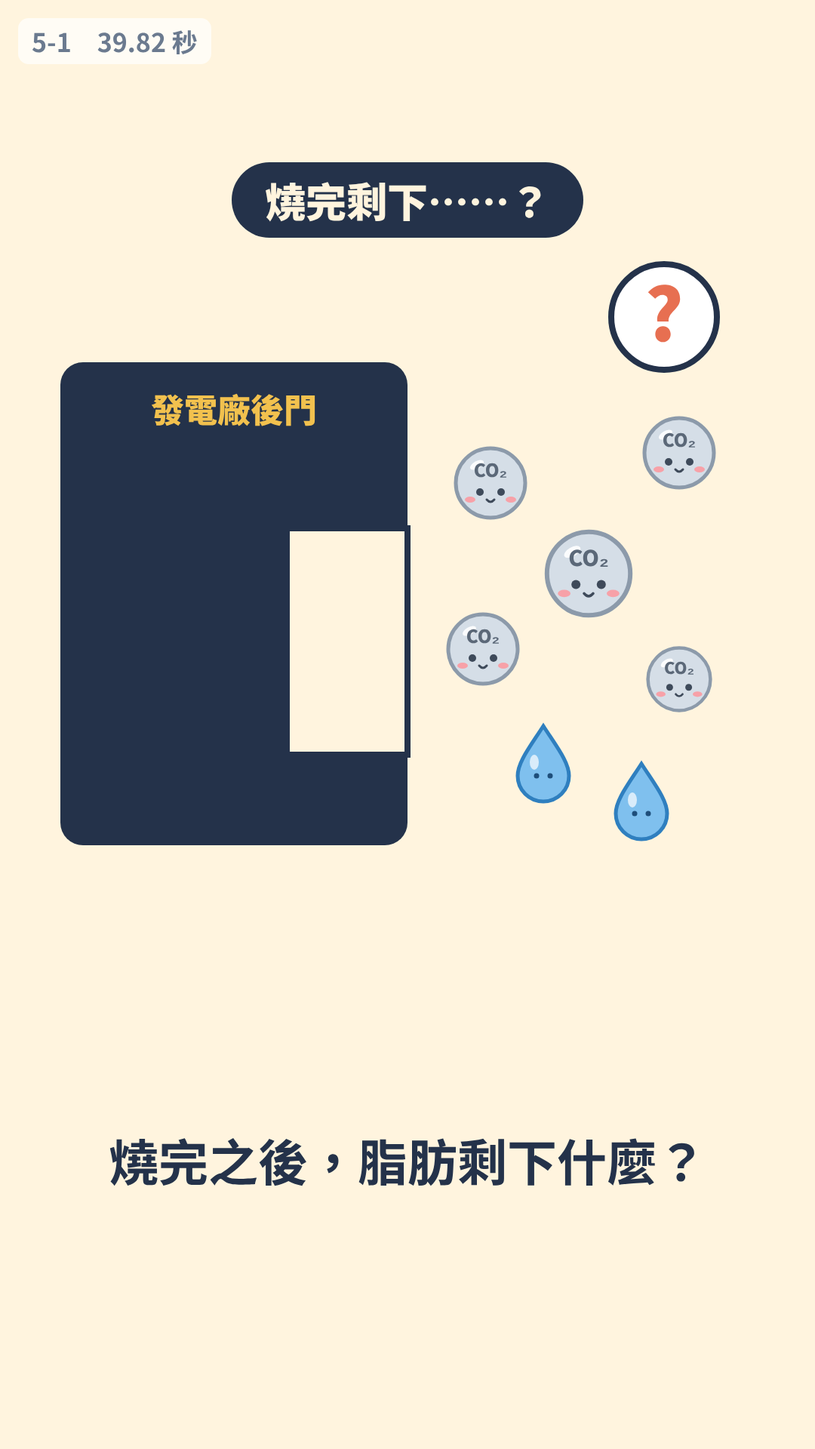
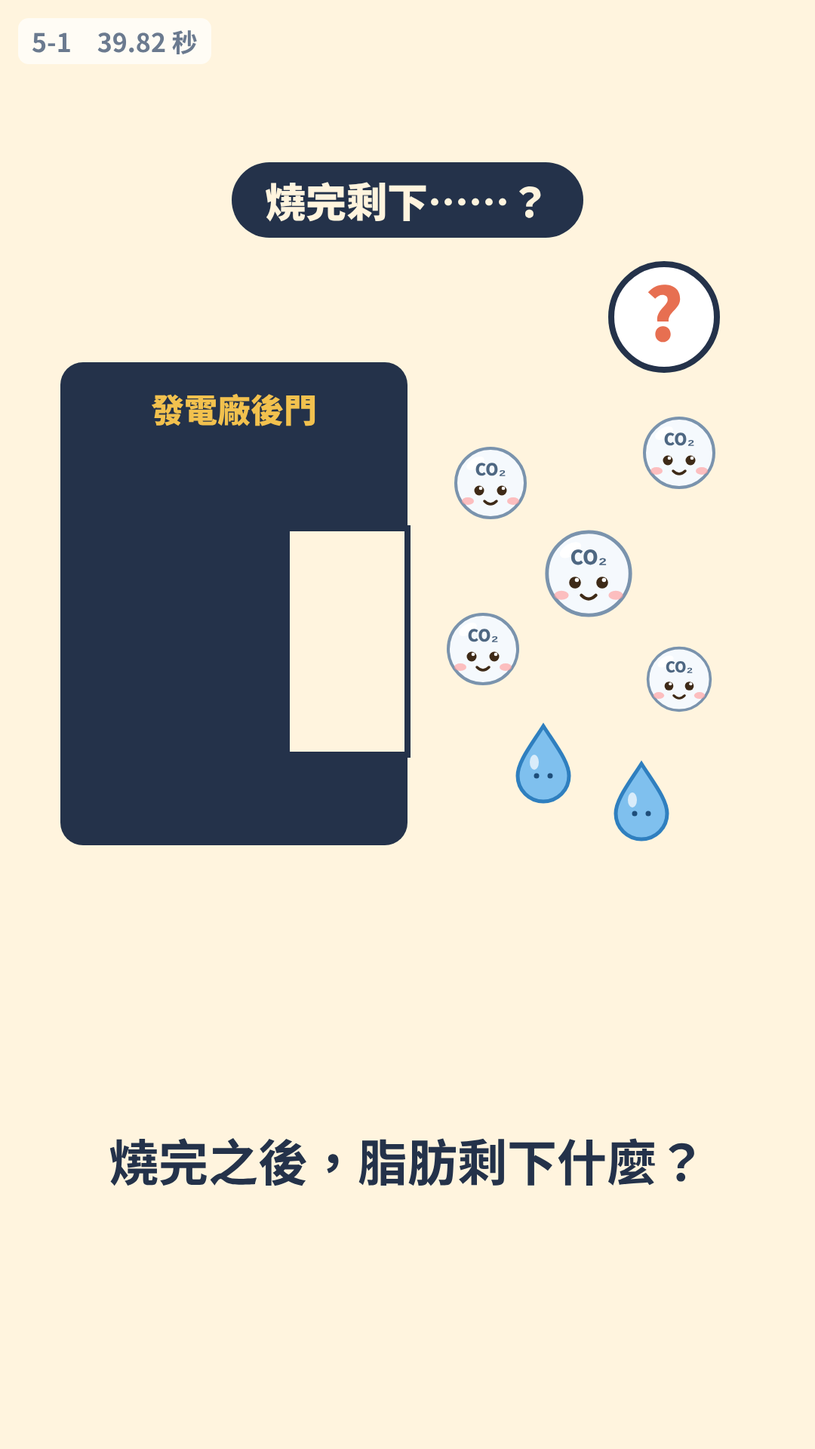
脂肪專案：油油換成使用者設計稿的造型（頭上三串小珠、甘油寶寶、脂肪酸毛毛蟲、CO₂ 泡泡）
Claude-Session: https://claude.ai/code/session_014fzaRRSj4catvv5FGHfu2h

diff --git a/projects/where-does-fat-go/storyboard/frames/frames.html b/projects/where-does-fat-go/storyboard/frames/frames.html
@@ -36,20 +36,16 @@
 <!-- 共用角色 -->
 <svg width="0" height="0" style="position:absolute">
   <defs>
+    <radialGradient id="bodyA" cx="0.38" cy="0.32" r="0.8"><stop offset="0" stop-color="#FFF1B8"/><stop offset="0.55" stop-color="#FFD86B"/><stop offset="1" stop-color="#F5B847"/></radialGradient><radialGradient id="beadA" cx="0.35" cy="0.3" r="0.8"><stop offset="0" stop-color="#FFD58A"/><stop offset="1" stop-color="#F09A2E"/></radialGradient>
     <radialGradient id="mochi" cx="40%" cy="25%" r="85%"><stop offset="0" stop-color="#FFF6D8"/><stop offset=".55" stop-color="#FBE2A0"/><stop offset="1" stop-color="#F2C46E"/></radialGradient>
-    <g id="yy"><circle cx="100.0" cy="-40.0" r="13.0" fill="#F5C66A" stroke="#A8743F" stroke-width="4"/><circle cx="124.0" cy="-31.8" r="12.4" fill="#F5C66A" stroke="#A8743F" stroke-width="4"/><circle cx="148.0" cy="-19.2" r="11.8" fill="#F5C66A" stroke="#A8743F" stroke-width="4"/><circle cx="172.0" cy="-2.2" r="11.2" fill="#F5C66A" stroke="#A8743F" stroke-width="4"/><circle cx="196.0" cy="19.2" r="10.6" fill="#F5C66A" stroke="#A8743F" stroke-width="4"/><circle cx="220.0" cy="45.0" r="10.0" fill="#F5C66A" stroke="#A8743F" stroke-width="4"/><circle cx="112.0" cy="0.0" r="13.0" fill="#F5C66A" stroke="#A8743F" stroke-width="4"/><circle cx="137.0" cy="12.0" r="12.4" fill="#F5C66A" stroke="#A8743F" stroke-width="4"/><circle cx="162.0" cy="28.0" r="11.8" fill="#F5C66A" stroke="#A8743F" stroke-width="4"/><circle cx="187.0" cy="48.0" r="11.2" fill="#F5C66A" stroke="#A8743F" stroke-width="4"/><circle cx="212.0" cy="72.0" r="10.6" fill="#F5C66A" stroke="#A8743F" stroke-width="4"/><circle cx="237.0" cy="100.0" r="10.0" fill="#F5C66A" stroke="#A8743F" stroke-width="4"/><circle cx="104.0" cy="40.0" r="13.0" fill="#F5C66A" stroke="#A8743F" stroke-width="4"/><circle cx="126.0" cy="57.6" r="12.4" fill="#F5C66A" stroke="#A8743F" stroke-width="4"/><circle cx="148.0" cy="78.4" r="11.8" fill="#F5C66A" stroke="#A8743F" stroke-width="4"/><circle cx="170.0" cy="102.4" r="11.2" fill="#F5C66A" stroke="#A8743F" stroke-width="4"/><circle cx="192.0" cy="129.6" r="10.6" fill="#F5C66A" stroke="#A8743F" stroke-width="4"/><circle cx="214.0" cy="160.0" r="10.0" fill="#F5C66A" stroke="#A8743F" stroke-width="4"/><path d="M-122,62 C-132,-40 -72,-112 0,-112 C72,-112 132,-40 122,62 Q119,88 92,90 H-92 Q-119,88 -122,62 Z" fill="url(#mochi)" stroke="#A8743F" stroke-width="7"/><ellipse cx="-62" cy="-70" rx="26" ry="11" fill="#fff" opacity=".85" transform="rotate(-32 -62 -70)"/><circle cx="-30" cy="-88" r="6" fill="#fff" opacity=".85"/><ellipse cx="-78" cy="50" rx="20" ry="12" fill="#F7A1A8" opacity=".8"/><ellipse cx="78" cy="50" rx="20" ry="12" fill="#F7A1A8" opacity=".8"/><circle cx="-46" cy="26" r="15" fill="#5A3A22"/><circle cx="46" cy="26" r="15" fill="#5A3A22"/><circle cx="-41" cy="20" r="5" fill="#fff"/><circle cx="51" cy="20" r="5" fill="#fff"/><path d="M-15,46 q7.5,10 15,0 q7.5,10 15,0" fill="none" stroke="#5A3A22" stroke-width="5" stroke-linecap="round"/></g>
-    <g id="yy-walk"><g transform="translate(0,90) scale(1.12,.86) translate(0,-90)"><circle cx="100.0" cy="-40.0" r="13.0" fill="#F5C66A" stroke="#A8743F" stroke-width="4"/><circle cx="124.0" cy="-31.8" r="12.4" fill="#F5C66A" stroke="#A8743F" stroke-width="4"/><circle cx="148.0" cy="-19.2" r="11.8" fill="#F5C66A" stroke="#A8743F" stroke-width="4"/><circle cx="172.0" cy="-2.2" r="11.2" fill="#F5C66A" stroke="#A8743F" stroke-width="4"/><circle cx="196.0" cy="19.2" r="10.6" fill="#F5C66A" stroke="#A8743F" stroke-width="4"/><circle cx="220.0" cy="45.0" r="10.0" fill="#F5C66A" stroke="#A8743F" stroke-width="4"/><circle cx="112.0" cy="0.0" r="13.0" fill="#F5C66A" stroke="#A8743F" stroke-width="4"/><circle cx="137.0" cy="12.0" r="12.4" fill="#F5C66A" stroke="#A8743F" stroke-width="4"/><circle cx="162.0" cy="28.0" r="11.8" fill="#F5C66A" stroke="#A8743F" stroke-width="4"/><circle cx="187.0" cy="48.0" r="11.2" fill="#F5C66A" stroke="#A8743F" stroke-width="4"/><circle cx="212.0" cy="72.0" r="10.6" fill="#F5C66A" stroke="#A8743F" stroke-width="4"/><circle cx="237.0" cy="100.0" r="10.0" fill="#F5C66A" stroke="#A8743F" stroke-width="4"/><circle cx="104.0" cy="40.0" r="13.0" fill="#F5C66A" stroke="#A8743F" stroke-width="4"/><circle cx="126.0" cy="57.6" r="12.4" fill="#F5C66A" stroke="#A8743F" stroke-width="4"/><circle cx="148.0" cy="78.4" r="11.8" fill="#F5C66A" stroke="#A8743F" stroke-width="4"/><circle cx="170.0" cy="102.4" r="11.2" fill="#F5C66A" stroke="#A8743F" stroke-width="4"/><circle cx="192.0" cy="129.6" r="10.6" fill="#F5C66A" stroke="#A8743F" stroke-width="4"/><circle cx="214.0" cy="160.0" r="10.0" fill="#F5C66A" stroke="#A8743F" stroke-width="4"/><path d="M-122,62 C-132,-40 -72,-112 0,-112 C72,-112 132,-40 122,62 Q119,88 92,90 H-92 Q-119,88 -122,62 Z" fill="url(#mochi)" stroke="#A8743F" stroke-width="7"/><ellipse cx="-62" cy="-70" rx="26" ry="11" fill="#fff" opacity=".85" transform="rotate(-32 -62 -70)"/><circle cx="-30" cy="-88" r="6" fill="#fff" opacity=".85"/><ellipse cx="-78" cy="50" rx="20" ry="12" fill="#F7A1A8" opacity=".8"/><ellipse cx="78" cy="50" rx="20" ry="12" fill="#F7A1A8" opacity=".8"/><circle cx="-46" cy="26" r="15" fill="#5A3A22"/><circle cx="46" cy="26" r="15" fill="#5A3A22"/><circle cx="-41" cy="20" r="5" fill="#fff"/><circle cx="51" cy="20" r="5" fill="#fff"/><path d="M-15,46 q7.5,10 15,0 q7.5,10 15,0" fill="none" stroke="#5A3A22" stroke-width="5" stroke-linecap="round"/></g></g>
-    <g id="yy-sleep"><circle cx="100.0" cy="-40.0" r="13.0" fill="#F5C66A" stroke="#A8743F" stroke-width="4"/><circle cx="124.0" cy="-31.8" r="12.4" fill="#F5C66A" stroke="#A8743F" stroke-width="4"/><circle cx="148.0" cy="-19.2" r="11.8" fill="#F5C66A" stroke="#A8743F" stroke-width="4"/><circle cx="172.0" cy="-2.2" r="11.2" fill="#F5C66A" stroke="#A8743F" stroke-width="4"/><circle cx="196.0" cy="19.2" r="10.6" fill="#F5C66A" stroke="#A8743F" stroke-width="4"/><circle cx="220.0" cy="45.0" r="10.0" fill="#F5C66A" stroke="#A8743F" stroke-width="4"/><circle cx="112.0" cy="0.0" r="13.0" fill="#F5C66A" stroke="#A8743F" stroke-width="4"/><circle cx="137.0" cy="12.0" r="12.4" fill="#F5C66A" stroke="#A8743F" stroke-width="4"/><circle cx="162.0" cy="28.0" r="11.8" fill="#F5C66A" stroke="#A8743F" stroke-width="4"/><circle cx="187.0" cy="48.0" r="11.2" fill="#F5C66A" stroke="#A8743F" stroke-width="4"/><circle cx="212.0" cy="72.0" r="10.6" fill="#F5C66A" stroke="#A8743F" stroke-width="4"/><circle cx="237.0" cy="100.0" r="10.0" fill="#F5C66A" stroke="#A8743F" stroke-width="4"/><circle cx="104.0" cy="40.0" r="13.0" fill="#F5C66A" stroke="#A8743F" stroke-width="4"/><circle cx="126.0" cy="57.6" r="12.4" fill="#F5C66A" stroke="#A8743F" stroke-width="4"/><circle cx="148.0" cy="78.4" r="11.8" fill="#F5C66A" stroke="#A8743F" stroke-width="4"/><circle cx="170.0" cy="102.4" r="11.2" fill="#F5C66A" stroke="#A8743F" stroke-width="4"/><circle cx="192.0" cy="129.6" r="10.6" fill="#F5C66A" stroke="#A8743F" stroke-width="4"/><circle cx="214.0" cy="160.0" r="10.0" fill="#F5C66A" stroke="#A8743F" stroke-width="4"/><path d="M-122,62 C-132,-40 -72,-112 0,-112 C72,-112 132,-40 122,62 Q119,88 92,90 H-92 Q-119,88 -122,62 Z" fill="url(#mochi)" stroke="#A8743F" stroke-width="7"/><ellipse cx="-62" cy="-70" rx="26" ry="11" fill="#fff" opacity=".85" transform="rotate(-32 -62 -70)"/><circle cx="-30" cy="-88" r="6" fill="#fff" opacity=".85"/><ellipse cx="-78" cy="50" rx="20" ry="12" fill="#F7A1A8" opacity=".8"/><ellipse cx="78" cy="50" rx="20" ry="12" fill="#F7A1A8" opacity=".8"/><path d="M-60,28 q14,12 28,0 M32,28 q14,12 28,0" fill="none" stroke="#5A3A22" stroke-width="6" stroke-linecap="round"/><circle cx="38" cy="58" r="22" fill="#D6ECFF" stroke="#8FBCE6" stroke-width="4" opacity=".9"/><circle cx="31" cy="51" r="5" fill="#fff"/>
-      <text x="40" y="-130" font-size="60" font-weight="900" fill="#A8743F">z</text><text x="80" y="-170" font-size="42" font-weight="900" fill="#A8743F">z</text></g>
-    <g id="yy-shock"><circle cx="77.1" cy="-101.9" r="13.0" fill="#F5C66A" stroke="#A8743F" stroke-width="4"/><circle cx="96.4" cy="-124.9" r="12.4" fill="#F5C66A" stroke="#A8743F" stroke-width="4"/><circle cx="115.7" cy="-147.9" r="11.8" fill="#F5C66A" stroke="#A8743F" stroke-width="4"/><circle cx="135.0" cy="-170.9" r="11.2" fill="#F5C66A" stroke="#A8743F" stroke-width="4"/><circle cx="154.3" cy="-193.9" r="10.6" fill="#F5C66A" stroke="#A8743F" stroke-width="4"/><circle cx="173.6" cy="-216.8" r="10.0" fill="#F5C66A" stroke="#A8743F" stroke-width="4"/><circle cx="115.9" cy="-41.1" r="13.0" fill="#F5C66A" stroke="#A8743F" stroke-width="4"/><circle cx="144.9" cy="-48.8" r="12.4" fill="#F5C66A" stroke="#A8743F" stroke-width="4"/><circle cx="173.9" cy="-56.6" r="11.8" fill="#F5C66A" stroke="#A8743F" stroke-width="4"/><circle cx="202.8" cy="-64.4" r="11.2" fill="#F5C66A" stroke="#A8743F" stroke-width="4"/><circle cx="231.8" cy="-72.1" r="10.6" fill="#F5C66A" stroke="#A8743F" stroke-width="4"/><circle cx="260.8" cy="-79.9" r="10.0" fill="#F5C66A" stroke="#A8743F" stroke-width="4"/><circle cx="112.8" cy="31.0" r="13.0" fill="#F5C66A" stroke="#A8743F" stroke-width="4"/><circle cx="141.0" cy="41.3" r="12.4" fill="#F5C66A" stroke="#A8743F" stroke-width="4"/><circle cx="169.1" cy="51.6" r="11.8" fill="#F5C66A" stroke="#A8743F" stroke-width="4"/><circle cx="197.3" cy="61.8" r="11.2" fill="#F5C66A" stroke="#A8743F" stroke-width="4"/><circle cx="225.5" cy="72.1" r="10.6" fill="#F5C66A" stroke="#A8743F" stroke-width="4"/><circle cx="253.7" cy="82.3" r="10.0" fill="#F5C66A" stroke="#A8743F" stroke-width="4"/><path d="M-122,62 C-132,-40 -72,-112 0,-112 C72,-112 132,-40 122,62 Q119,88 92,90 H-92 Q-119,88 -122,62 Z" fill="url(#mochi)" stroke="#A8743F" stroke-width="7"/><ellipse cx="-62" cy="-70" rx="26" ry="11" fill="#fff" opacity=".85" transform="rotate(-32 -62 -70)"/><circle cx="-30" cy="-88" r="6" fill="#fff" opacity=".85"/><ellipse cx="-78" cy="50" rx="20" ry="12" fill="#F7A1A8" opacity=".8"/><ellipse cx="78" cy="50" rx="20" ry="12" fill="#F7A1A8" opacity=".8"/><circle cx="-46" cy="22" r="20" fill="#fff" stroke="#5A3A22" stroke-width="5"/><circle cx="46" cy="22" r="20" fill="#fff" stroke="#5A3A22" stroke-width="5"/><circle cx="-46" cy="22" r="7" fill="#5A3A22"/><circle cx="46" cy="22" r="7" fill="#5A3A22"/><ellipse cx="0" cy="56" rx="11" ry="14" fill="#5A3A22"/><path d="M-120,-120 l-20,-30 M120,-120 l20,-30 M0,-140 v-36" stroke="#E76F51" stroke-width="8" stroke-linecap="round"/></g>
+    <g id="yy"><g transform="scale(1.7) translate(-100,-115)"><ellipse cx="100" cy="174" rx="62" ry="7" fill="#EFDDBF"/><g fill="url(#beadA)" stroke="#6B4A2B" stroke-width="3"><circle cx="74" cy="13" r="4.5"/><circle cx="76" cy="24" r="5.5"/><circle cx="81" cy="36" r="6.5"/><circle cx="88" cy="48" r="7.5"/><circle cx="102" cy="8" r="4.5"/><circle cx="100" cy="20" r="5.5"/><circle cx="101" cy="33" r="6.5"/><circle cx="100" cy="46" r="7.5"/><circle cx="130" cy="13" r="4.5"/><circle cx="126" cy="24" r="5.5"/><circle cx="120" cy="36" r="6.5"/><circle cx="112" cy="48" r="7.5"/></g><path d="M44 168 C 28 168 24 140 31 117 C 40 78 70 52 100 52 C 130 52 160 78 169 117 C 176 140 172 168 156 168 Z" fill="url(#bodyA)" stroke="#6B4A2B" stroke-width="3.5" stroke-linejoin="round"/><ellipse cx="68" cy="88" rx="13" ry="7" fill="#FFFFFF" opacity="0.75" transform="rotate(-28 68 88)"/><circle cx="83" cy="88" r="2.5" fill="#FFFFFF" opacity="0.8"/><ellipse cx="62" cy="136" rx="11" ry="6.5" fill="#FF9E9E" opacity="0.7"/><ellipse cx="138" cy="136" rx="11" ry="6.5" fill="#FF9E9E" opacity="0.7"/><circle cx="78" cy="124" r="8" fill="#3E2A17"/><circle cx="122" cy="124" r="8" fill="#3E2A17"/><circle cx="81" cy="120.5" r="3" fill="#FFFFFF"/><circle cx="125" cy="120.5" r="3" fill="#FFFFFF"/><circle cx="75.5" cy="127" r="1.3" fill="#FFFFFF"/><circle cx="119.5" cy="127" r="1.3" fill="#FFFFFF"/><path d="M92 134 q4 5 8 0 q4 5 8 0" fill="none" stroke="#3E2A17" stroke-width="2.8" stroke-linecap="round" stroke-linejoin="round"/></g></g>
+    <g id="yy-walk"><g transform="translate(0,90) scale(1.12,.86) translate(0,-90)"><g transform="scale(1.7) translate(-100,-115)"><ellipse cx="100" cy="174" rx="62" ry="7" fill="#EFDDBF"/><g fill="url(#beadA)" stroke="#6B4A2B" stroke-width="3"><circle cx="74" cy="13" r="4.5"/><circle cx="76" cy="24" r="5.5"/><circle cx="81" cy="36" r="6.5"/><circle cx="88" cy="48" r="7.5"/><circle cx="102" cy="8" r="4.5"/><circle cx="100" cy="20" r="5.5"/><circle cx="101" cy="33" r="6.5"/><circle cx="100" cy="46" r="7.5"/><circle cx="130" cy="13" r="4.5"/><circle cx="126" cy="24" r="5.5"/><circle cx="120" cy="36" r="6.5"/><circle cx="112" cy="48" r="7.5"/></g><path d="M44 168 C 28 168 24 140 31 117 C 40 78 70 52 100 52 C 130 52 160 78 169 117 C 176 140 172 168 156 168 Z" fill="url(#bodyA)" stroke="#6B4A2B" stroke-width="3.5" stroke-linejoin="round"/><ellipse cx="68" cy="88" rx="13" ry="7" fill="#FFFFFF" opacity="0.75" transform="rotate(-28 68 88)"/><circle cx="83" cy="88" r="2.5" fill="#FFFFFF" opacity="0.8"/><ellipse cx="62" cy="136" rx="11" ry="6.5" fill="#FF9E9E" opacity="0.7"/><ellipse cx="138" cy="136" rx="11" ry="6.5" fill="#FF9E9E" opacity="0.7"/><circle cx="78" cy="124" r="8" fill="#3E2A17"/><circle cx="122" cy="124" r="8" fill="#3E2A17"/><circle cx="81" cy="120.5" r="3" fill="#FFFFFF"/><circle cx="125" cy="120.5" r="3" fill="#FFFFFF"/><circle cx="75.5" cy="127" r="1.3" fill="#FFFFFF"/><circle cx="119.5" cy="127" r="1.3" fill="#FFFFFF"/><path d="M92 134 q4 5 8 0 q4 5 8 0" fill="none" stroke="#3E2A17" stroke-width="2.8" stroke-linecap="round" stroke-linejoin="round"/></g></g></g>
+    <g id="yy-sleep"><g transform="scale(1.7) translate(-100,-115)"><ellipse cx="100" cy="174" rx="68" ry="7" fill="#E1DCEF"/><g fill="url(#beadA)" stroke="#6B4A2B" stroke-width="3"><circle cx="110" cy="66" r="7.5"/><circle cx="124" cy="62" r="6.5"/><circle cx="137" cy="62" r="5.5"/><circle cx="148" cy="66" r="4.5"/><circle cx="114" cy="74" r="7.5"/><circle cx="129" cy="74" r="6.5"/><circle cx="142" cy="77" r="5.5"/><circle cx="152" cy="82" r="4.5"/><circle cx="116" cy="84" r="7.5"/><circle cx="130" cy="88" r="6.5"/><circle cx="141" cy="94" r="5.5"/><circle cx="149" cy="101" r="4.5"/></g><path d="M38 168 C 22 168 18 146 26 128 C 36 98 68 74 100 74 C 132 74 164 98 174 128 C 182 146 178 168 162 168 Z" fill="url(#bodyA)" stroke="#6B4A2B" stroke-width="3.5" stroke-linejoin="round"/><ellipse cx="62" cy="104" rx="13" ry="6" fill="#FFFFFF" opacity="0.75" transform="rotate(-22 62 104)"/><ellipse cx="60" cy="142" rx="11" ry="6" fill="#FF9E9E" opacity="0.7"/><ellipse cx="140" cy="142" rx="11" ry="6" fill="#FF9E9E" opacity="0.7"/><path d="M68 132 q9 7 18 0" fill="none" stroke="#3E2A17" stroke-width="3" stroke-linecap="round"/><path d="M114 132 q9 7 18 0" fill="none" stroke="#3E2A17" stroke-width="3" stroke-linecap="round"/><path d="M95 146 q5 3 10 0" fill="none" stroke="#3E2A17" stroke-width="2.6" stroke-linecap="round"/><circle cx="146" cy="128" r="13" fill="#E6F4FF" stroke="#7A93AD" stroke-width="2.5" opacity="0.95"/><ellipse cx="141" cy="123" rx="4" ry="2.5" fill="#FFFFFF"/><text x="46" y="58" font-size="22" font-weight="700" fill="#6B6FA8">z</text><text x="28" y="38" font-size="16" font-weight="700" fill="#8E91C0">z</text></g></g>
+    <g id="yy-shock"><g transform="scale(1.7) translate(-100,-115)"><ellipse cx="100" cy="174" rx="62" ry="7" fill="#EFDDBF"/><g fill="url(#beadA)" stroke="#6B4A2B" stroke-width="3"><circle cx="60.1" cy="64.5" r="7.5"/><circle cx="50.5" cy="53.0" r="6.5"/><circle cx="40.9" cy="41.5" r="5.5"/><circle cx="31.2" cy="30.0" r="4.5"/><circle cx="100.0" cy="50.0" r="7.5"/><circle cx="100.0" cy="35.0" r="6.5"/><circle cx="100.0" cy="20.0" r="5.5"/><circle cx="100.0" cy="5.0" r="4.5"/><circle cx="139.9" cy="64.5" r="7.5"/><circle cx="149.5" cy="53.0" r="6.5"/><circle cx="159.1" cy="41.5" r="5.5"/><circle cx="168.8" cy="30.0" r="4.5"/></g><path d="M44 168 C 28 168 24 140 31 117 C 40 78 70 52 100 52 C 130 52 160 78 169 117 C 176 140 172 168 156 168 Z" fill="url(#bodyA)" stroke="#6B4A2B" stroke-width="3.5" stroke-linejoin="round"/><ellipse cx="68" cy="88" rx="13" ry="7" fill="#FFFFFF" opacity="0.75" transform="rotate(-28 68 88)"/><circle cx="83" cy="88" r="2.5" fill="#FFFFFF" opacity="0.8"/><ellipse cx="62" cy="136" rx="11" ry="6.5" fill="#FF9E9E" opacity="0.7"/><ellipse cx="138" cy="136" rx="11" ry="6.5" fill="#FF9E9E" opacity="0.7"/><circle cx="78" cy="122" r="11" fill="#fff" stroke="#3E2A17" stroke-width="2.5"/><circle cx="122" cy="122" r="11" fill="#fff" stroke="#3E2A17" stroke-width="2.5"/><circle cx="78" cy="122" r="4.5" fill="#3E2A17"/><circle cx="122" cy="122" r="4.5" fill="#3E2A17"/><ellipse cx="100" cy="142" rx="6" ry="7" fill="#3E2A17"/><path d="M30,40 l-10,-10 M170,40 l10,-10" stroke="#E76F51" stroke-width="4" stroke-linecap="round"/></g></g>
     <!-- 甘油寶寶 -->
-    <g id="gly"><path d="M-70,40 C-76,-20 -42,-66 0,-66 C42,-66 76,-20 70,40 Q68,54 52,55 H-52 Q-68,54 -70,40 Z" fill="url(#mochi)" stroke="#A8743F" stroke-width="6"/>
-      <ellipse cx="-36" cy="-40" rx="14" ry="6" fill="#fff" opacity=".85" transform="rotate(-30 -36 -40)"/>
-      <circle cx="-24" cy="12" r="9" fill="#5A3A22"/><circle cx="24" cy="12" r="9" fill="#5A3A22"/><circle cx="-21" cy="9" r="3" fill="#fff"/><circle cx="27" cy="9" r="3" fill="#fff"/>
-      <ellipse cx="-44" cy="28" rx="11" ry="7" fill="#F7A1A8"/><ellipse cx="44" cy="28" rx="11" ry="7" fill="#F7A1A8"/>
-      <path d="M-8,28 q4,6 8,0 q4,6 8,0" fill="none" stroke="#5A3A22" stroke-width="3.5" stroke-linecap="round"/></g>
+    <g id="gly"><g transform="scale(.95) translate(-100,-115)"><path d="M44 168 C 28 168 24 140 31 117 C 40 78 70 52 100 52 C 130 52 160 78 169 117 C 176 140 172 168 156 168 Z" fill="url(#bodyA)" stroke="#6B4A2B" stroke-width="5.5" stroke-linejoin="round"/><ellipse cx="68" cy="88" rx="13" ry="7" fill="#FFFFFF" opacity="0.75" transform="rotate(-28 68 88)"/><ellipse cx="62" cy="136" rx="11" ry="6.5" fill="#FF9E9E" opacity="0.7"/><ellipse cx="138" cy="136" rx="11" ry="6.5" fill="#FF9E9E" opacity="0.7"/><circle cx="78" cy="122" r="9" fill="#3E2A17"/><circle cx="122" cy="122" r="9" fill="#3E2A17"/><circle cx="81" cy="118" r="3.5" fill="#FFFFFF"/><circle cx="125" cy="118" r="3.5" fill="#FFFFFF"/><ellipse cx="100" cy="140" rx="6" ry="7" fill="#3E2A17"/></g></g>
     <!-- 脂肪酸毛毛蟲（頭在 0,0，往右延伸約 160） -->
-    <g id="fa"><circle cx="140.0" cy="1.5" r="15" fill="#F5C66A" stroke="#A8743F" stroke-width="4"/><circle cx="112.0" cy="-6.2" r="15" fill="#F5C66A" stroke="#A8743F" stroke-width="4"/><circle cx="84.0" cy="-4.8" r="15" fill="#F5C66A" stroke="#A8743F" stroke-width="4"/><circle cx="56.0" cy="3.6" r="15" fill="#F5C66A" stroke="#A8743F" stroke-width="4"/><circle cx="28.0" cy="6.7" r="15" fill="#F5C66A" stroke="#A8743F" stroke-width="4"/><circle cx="0" cy="0" r="24" fill="#F5C66A" stroke="#A8743F" stroke-width="4"/><circle cx="-8" cy="-3" r="4.5" fill="#5A3A22"/><circle cx="8" cy="-3" r="4.5" fill="#5A3A22"/><ellipse cx="-14" cy="8" rx="5" ry="3" fill="#F7A1A8"/><ellipse cx="14" cy="8" rx="5" ry="3" fill="#F7A1A8"/><path d="M-4,8 q4,5 8,0" fill="none" stroke="#5A3A22" stroke-width="2.5" stroke-linecap="round"/></g>
+    <g id="fa"><g transform="scale(2)"><g stroke="#6B4A2B" stroke-width="2.6" fill="url(#beadA)"><circle cx="68" cy="0" r="5"/><circle cx="54" cy="-4" r="6"/><circle cx="38" cy="0" r="7"/><circle cx="20" cy="-4" r="8"/><circle cx="0" cy="0" r="11"/></g><circle cx="-5" cy="-2" r="2.4" fill="#3E2A17"/><circle cx="4" cy="-2" r="2.4" fill="#3E2A17"/><circle cx="-8" cy="5" r="2.6" fill="#FF9E9E" opacity=".8"/><circle cx="7" cy="5" r="2.6" fill="#FF9E9E" opacity=".8"/></g></g>
     <!-- 阿肥（女性）：腳底在 (0,0) -->
     <g id="af">
       <rect x="-50" y="-115" width="40" height="115" rx="18" fill="#3D4F7A"/><rect x="10" y="-115" width="40" height="115" rx="18" fill="#3D4F7A"/>
@@ -65,11 +61,7 @@
       <path d="M-150,-420 Q-162,-575 0,-582 Q162,-575 150,-420 L148,-330 Q120,-310 108,-350 L-108,-350 Q-120,-310 -148,-330 Z" fill="#5A3A2A"/>
       <ellipse cx="0" cy="-425" rx="132" ry="126" fill="#FFD9BF"/>
       <path d="M-134,-430 Q-140,-560 0,-560 Q140,-560 134,-430 Q118,-492 70,-500 Q52,-470 22,-498 Q-10,-470 -34,-500 Q-90,-500 -134,-430 Z" fill="#5A3A2A"/>
-      <g transform="translate(104,-500) scale(.2)">
-        <path d="M-122,62 C-132,-40 -72,-112 0,-112 C72,-112 132,-40 122,62 Q119,88 92,90 H-92 Q-119,88 -122,62 Z" fill="url(#mochi)" stroke="#A8743F" stroke-width="12"/>
-        <circle cx="-46" cy="26" r="18" fill="#3B2418"/><circle cx="46" cy="26" r="18" fill="#3B2418"/>
-        <ellipse cx="-78" cy="50" rx="22" ry="13" fill="#FF8FA0"/><ellipse cx="78" cy="50" rx="22" ry="13" fill="#FF8FA0"/>
-      </g>
+      <g transform="translate(104,-500) scale(.2)"><use href="#yy"/></g>
       <ellipse cx="-50" cy="-410" rx="20" ry="27" fill="#3B2418"/><ellipse cx="50" cy="-410" rx="20" ry="27" fill="#3B2418"/>
       <circle cx="-43" cy="-420" r="8" fill="#fff"/><circle cx="57" cy="-420" r="8" fill="#fff"/>
       <circle cx="-56" cy="-398" r="4" fill="#fff"/><circle cx="44" cy="-398" r="4" fill="#fff"/>
@@ -81,8 +73,8 @@
     <g id="arm-l"><rect x="-104" y="-282" width="38" height="125" rx="19" fill="#FF9FA8" stroke="#F27C89" stroke-width="5"/><circle cx="-85" cy="-152" r="22" fill="#FFD9BF"/></g>
     <g id="arm-r"><rect x="66" y="-282" width="38" height="125" rx="19" fill="#FF9FA8" stroke="#F27C89" stroke-width="5"/><circle cx="85" cy="-152" r="22" fill="#FFD9BF"/></g>
     <g id="batt-frame"><rect x="0" y="0" width="300" height="120" rx="24" fill="#fff" stroke="#24324A" stroke-width="10"/><rect x="300" y="35" width="22" height="50" rx="8" fill="#24324A"/></g>
-    <g id="co2"><circle r="46" fill="#D5DEE7" stroke="#8C9AAA" stroke-width="5"/><ellipse cx="-18" cy="-24" rx="10" ry="5" fill="#fff" opacity=".9" transform="rotate(-30 -18 -24)"/><text y="-8" text-anchor="middle" font-size="24" font-weight="900" fill="#5B6878">CO₂</text><circle cx="-14" cy="12" r="5" fill="#3E4A5A"/><circle cx="14" cy="12" r="5" fill="#3E4A5A"/><ellipse cx="-27" cy="22" rx="7" ry="4" fill="#F7A1A8"/><ellipse cx="27" cy="22" rx="7" ry="4" fill="#F7A1A8"/><path d="M-5,22 q5,6 10,0" fill="none" stroke="#3E4A5A" stroke-width="3" stroke-linecap="round"/></g>
-    <g id="co2-wave"><circle r="46" fill="#D5DEE7" stroke="#8C9AAA" stroke-width="5"/><ellipse cx="-18" cy="-24" rx="10" ry="5" fill="#fff" opacity=".9" transform="rotate(-30 -18 -24)"/><text y="-8" text-anchor="middle" font-size="24" font-weight="900" fill="#5B6878">CO₂</text><circle cx="-14" cy="12" r="5" fill="#3E4A5A"/><circle cx="14" cy="12" r="5" fill="#3E4A5A"/><ellipse cx="-27" cy="22" rx="7" ry="4" fill="#F7A1A8"/><ellipse cx="27" cy="22" rx="7" ry="4" fill="#F7A1A8"/><path d="M-5,22 q5,6 10,0" fill="none" stroke="#3E4A5A" stroke-width="3" stroke-linecap="round"/><path d="M40,-10 q22,-14 18,-36" fill="none" stroke="#8C9AAA" stroke-width="7" stroke-linecap="round"/><circle cx="58" cy="-48" r="9" fill="#D5DEE7" stroke="#8C9AAA" stroke-width="4"/></g>
+    <g id="co2"><circle r="46" fill="#F5F9FD" stroke="#7A93AD" stroke-width="4"/><ellipse cx="-20" cy="-26" rx="13" ry="7" fill="#fff" transform="rotate(-30 -20 -26)"/><text y="-10" text-anchor="middle" font-size="22" font-weight="900" fill="#4E6782">CO₂</text><circle cx="-15" cy="10" r="6.5" fill="#3E2A17"/><circle cx="15" cy="10" r="6.5" fill="#3E2A17"/><circle cx="-13" cy="7" r="2.3" fill="#fff"/><circle cx="17" cy="7" r="2.3" fill="#fff"/><path d="M-8,24 q8,8 16,0" fill="none" stroke="#3E2A17" stroke-width="3.5" stroke-linecap="round"/><ellipse cx="-30" cy="24" rx="8" ry="5" fill="#FF9E9E" opacity=".65"/><ellipse cx="30" cy="24" rx="8" ry="5" fill="#FF9E9E" opacity=".65"/></g>
+    <g id="co2-wave"><circle r="46" fill="#F5F9FD" stroke="#7A93AD" stroke-width="4"/><ellipse cx="-20" cy="-26" rx="13" ry="7" fill="#fff" transform="rotate(-30 -20 -26)"/><text y="-10" text-anchor="middle" font-size="22" font-weight="900" fill="#4E6782">CO₂</text><circle cx="-15" cy="10" r="6.5" fill="#3E2A17"/><circle cx="15" cy="10" r="6.5" fill="#3E2A17"/><circle cx="-13" cy="7" r="2.3" fill="#fff"/><circle cx="17" cy="7" r="2.3" fill="#fff"/><path d="M-8,24 q8,8 16,0" fill="none" stroke="#3E2A17" stroke-width="3.5" stroke-linecap="round"/><ellipse cx="-30" cy="24" rx="8" ry="5" fill="#FF9E9E" opacity=".65"/><ellipse cx="30" cy="24" rx="8" ry="5" fill="#FF9E9E" opacity=".65"/><path d="M44,-6 q20,-8 22,-30" fill="none" stroke="#7A93AD" stroke-width="4.5" stroke-linecap="round"/><circle cx="66" cy="-40" r="7" fill="#F5F9FD" stroke="#7A93AD" stroke-width="3.5"/></g>
     <g id="h2o"><path d="M0,-48 C18,-20 34,0 34,18 A34,34 0 0 1 -34,18 C-34,0 -18,-20 0,-48 Z" fill="#7FC0EE" stroke="#2F7FBF" stroke-width="5"/><ellipse cx="-12" cy="0" rx="6" ry="10" fill="#fff" opacity=".7"/>
       <circle cx="-9" cy="18" r="3.5" fill="#1E4E7A"/><circle cx="9" cy="18" r="3.5" fill="#1E4E7A"/></g>
     <g id="o2"><circle r="46" fill="#4FA3E0"/><circle cx="-15" cy="-8" r="7" fill="#fff"/><circle cx="15" cy="-8" r="7" fill="#fff"/><path d="M-14,14 q14,12 28,0" fill="none" stroke="#fff" stroke-width="5" stroke-linecap="round"/><text y="-56" text-anchor="middle" font-size="34" font-weight="900" fill="#2F7FBF">O₂</text></g>
@@ -145,6 +137,7 @@
       <rect x="640" y="660" width="140" height="220" rx="16" fill="#7CC47F"/>
       <rect x="440" y="1000" width="200" height="160" rx="16" fill="#4FA3E0"/>
       <text x="540" y="945" text-anchor="middle" font-size="44" font-weight="900" fill="#fff">身體城市</text>
+      <g transform="translate(540,1110) scale(.45)"><use href="#yy"/></g>
     </g>
     <path d="M540,480 l0,-120 M540,360 l-30,40 M540,360 l30,40" stroke="#E76F51" stroke-width="0"/>
     <text x="540" y="430" text-anchor="middle" font-size="60" font-weight="900" fill="#E76F51">ZOOM ▼ 進入身體</text>
@@ -458,17 +451,17 @@
   <svg class="art" width="1920" height="1240">
     <g font-weight="900" font-size="40" fill="#24324A" text-anchor="middle">
       <g transform="translate(200,380) scale(1.1)"><use href="#yy"/></g><text x="220" y="560">正面</text>
-      <text x="220" y="608" font-size="30" font-weight="700" fill="#6B7A8F">麻糬身體・串珠尾巴</text>
+      <text x="220" y="608" font-size="30" font-weight="700" fill="#6B7A8F">身體＝甘油・頭上三串小珠＝脂肪酸</text>
       <g transform="translate(630,380) scale(1.1)"><use href="#yy-walk"/></g><text x="650" y="560">走路 Q 彈壓扁</text>
       <g transform="translate(1060,380) scale(1.1)"><use href="#yy-sleep"/></g><text x="1080" y="560">睡覺・鼻涕泡泡</text>
-      <g transform="translate(1440,380) scale(1.1)"><use href="#yy-shock"/></g><text x="1460" y="560">鬧鐘嚇到・尾巴炸開</text>
+      <g transform="translate(1440,380) scale(1.1)"><use href="#yy-shock"/></g><text x="1460" y="560">鬧鐘嚇到・小珠炸開</text>
       <g transform="translate(200,860) scale(1.2)"><use href="#gly"/></g><text x="200" y="980">甘油寶寶</text>
       <g transform="translate(400,760)"><use href="#fa"/></g><g transform="translate(400,850)"><use href="#fa"/></g><g transform="translate(400,940)"><use href="#fa"/></g>
       <text x="480" y="1010">脂肪酸毛毛蟲 ×3</text>
       <text x="340" y="1080" font-size="30" font-weight="700" fill="#6B7A8F">被剪開以後</text>
       <g transform="translate(790,840) scale(1.5)"><use href="#co2-wave"/></g><text x="800" y="980">CO₂ 小泡泡揮手</text>
       <g transform="translate(1080,860) scale(1.3)"><use href="#h2o"/></g><text x="1080" y="980">小水滴</text>
-      <g transform="translate(1450,1160) scale(.85)"><use href="#af"/><use href="#arm-l"/><use href="#arm-r"/></g>
+      <g transform="translate(1460,1220) scale(.75)"><use href="#af"/><use href="#arm-l"/><use href="#arm-r"/></g>
       <text x="1700" y="900">阿肥</text><text x="1700" y="950" font-size="30" font-weight="700" fill="#6B7A8F">減重中的上班族</text>
     </g>
   </svg>
